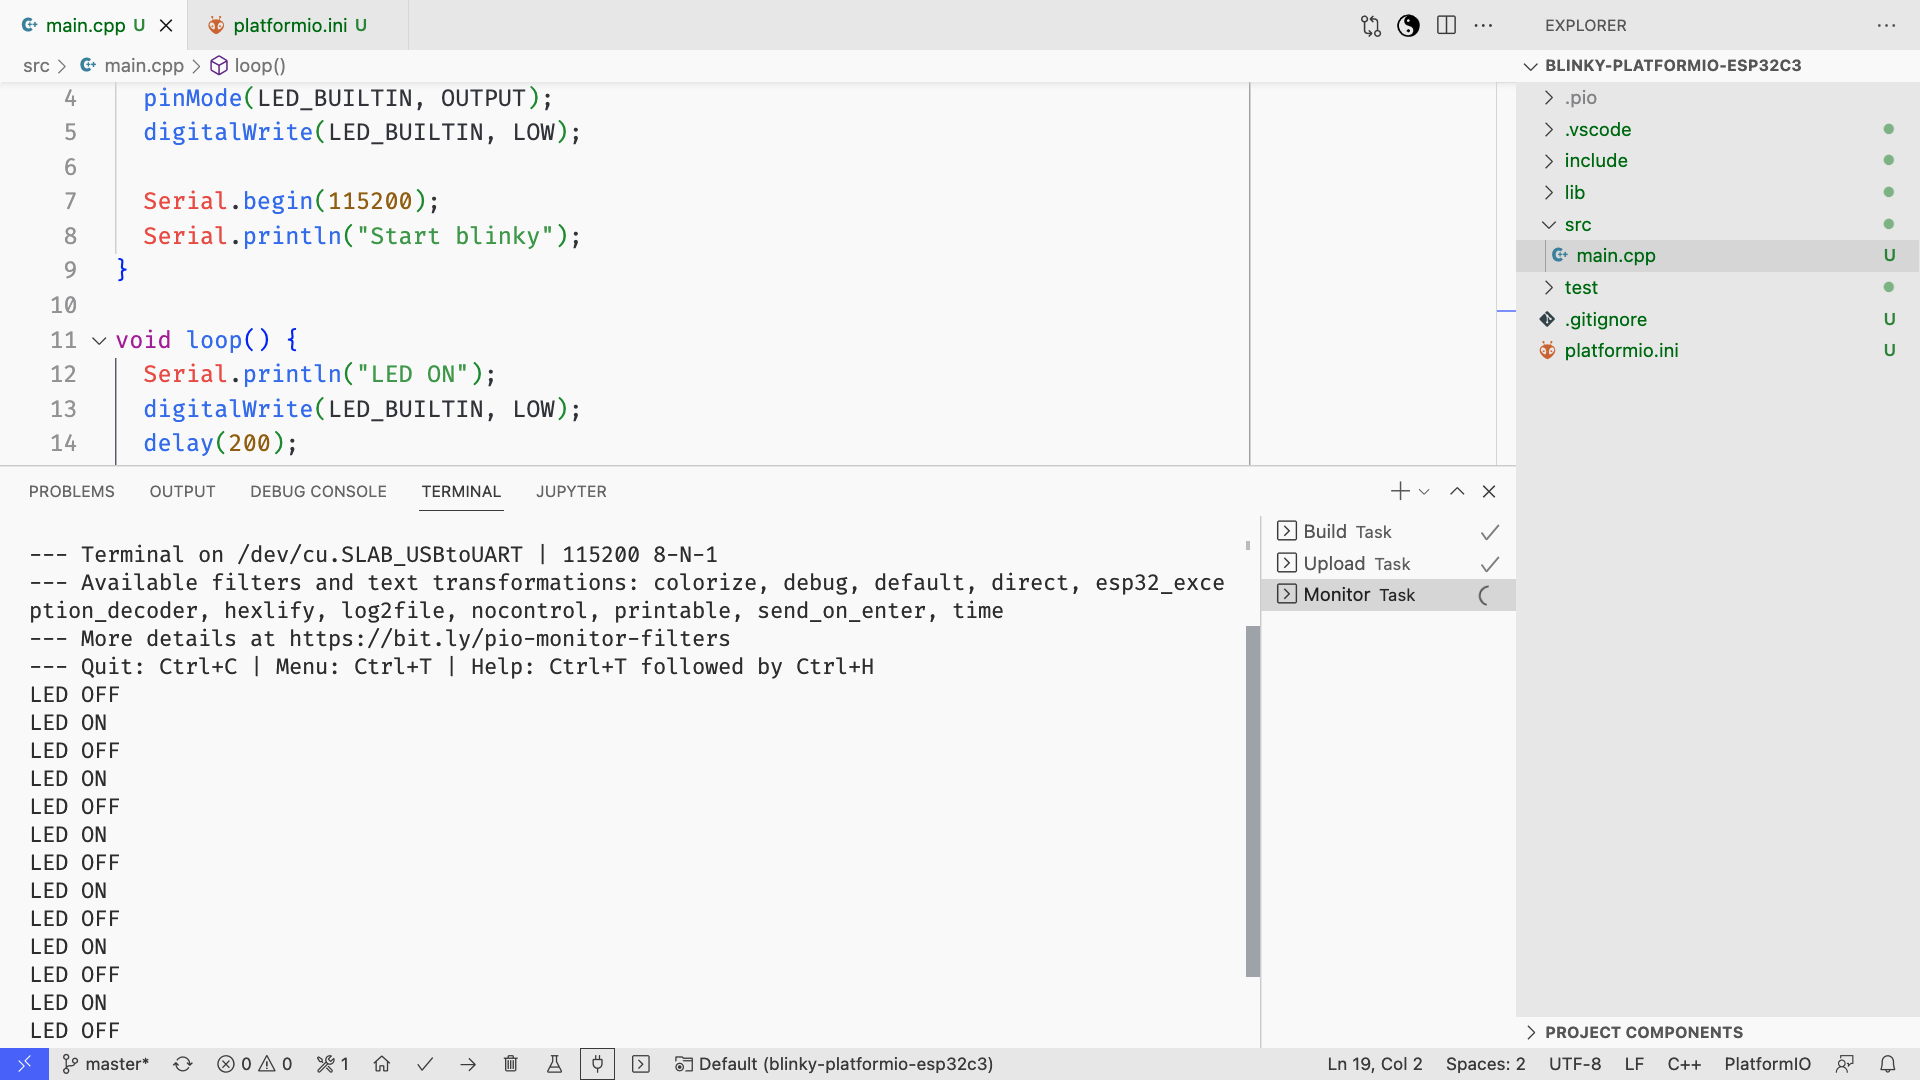
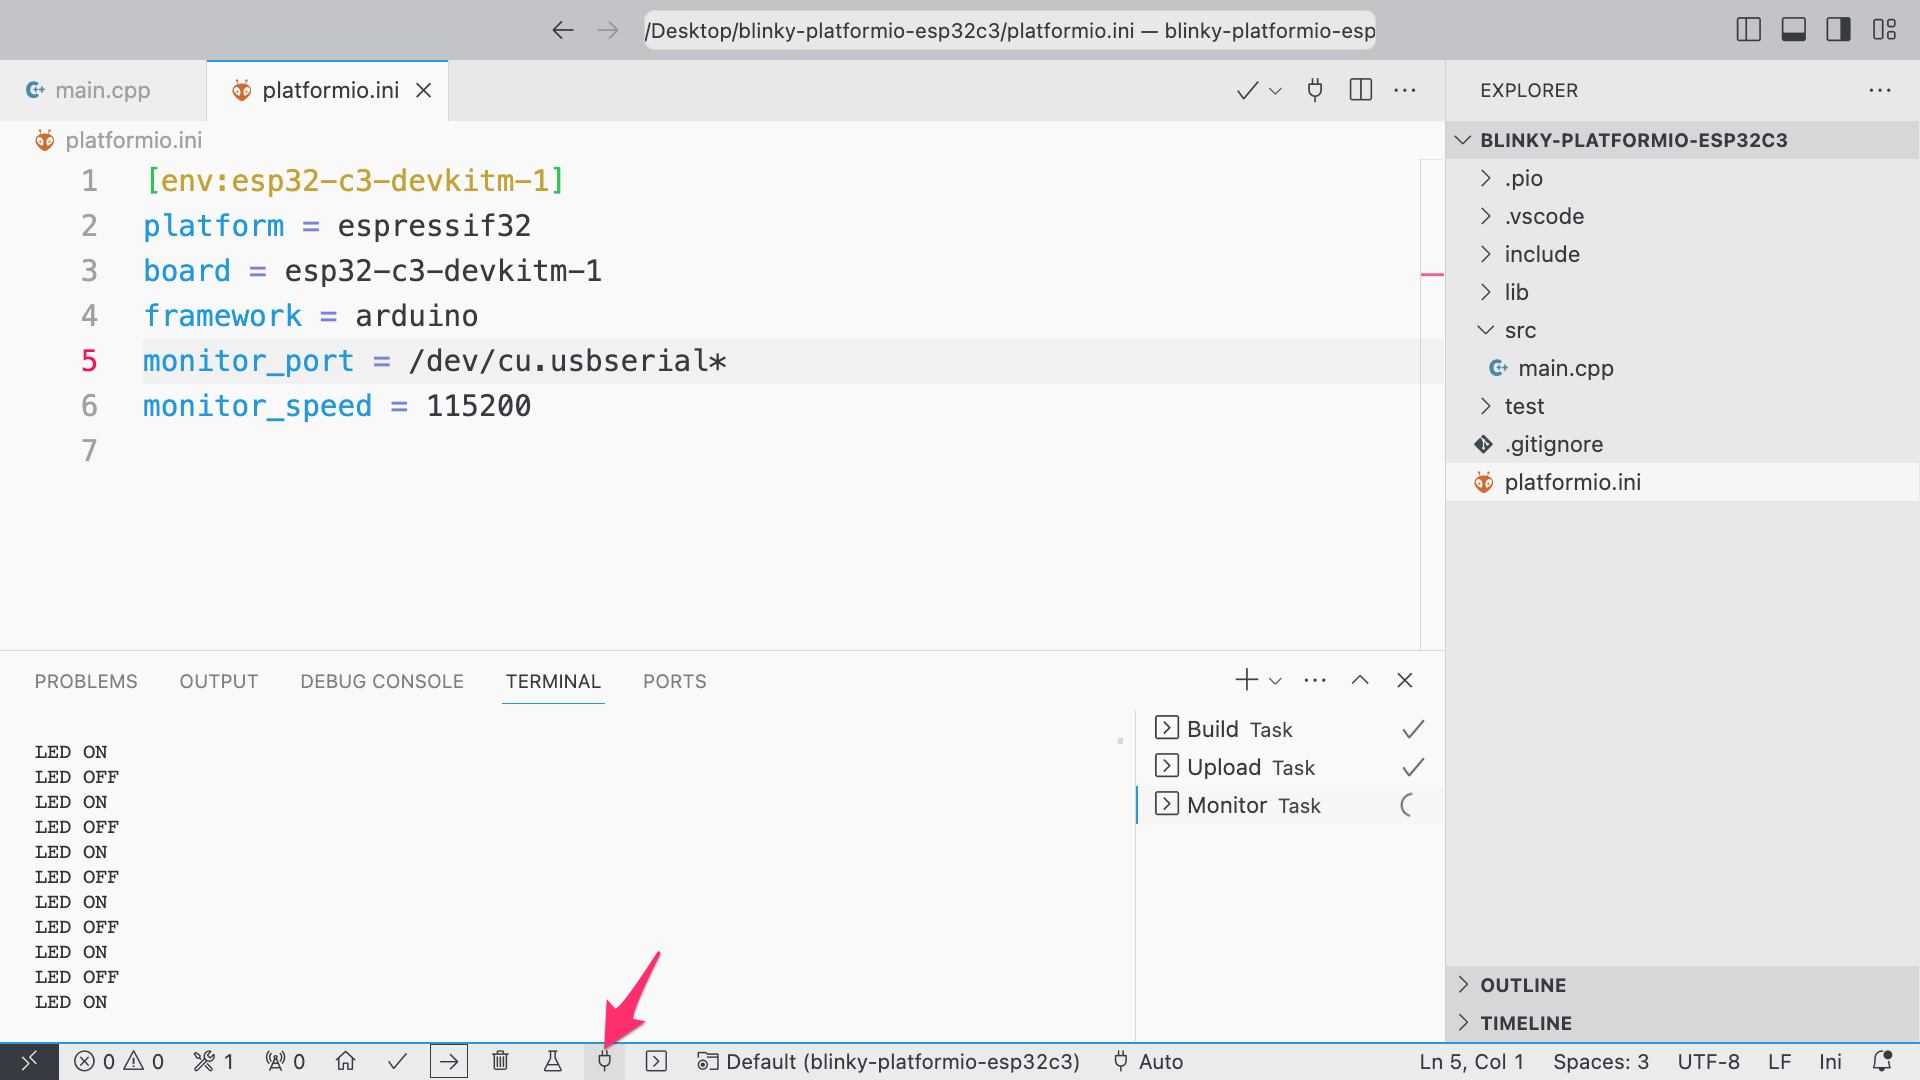
docs: add images for Blinky ESP32-C3 platformio

diff --git a/_tutorials/blinky-platformio-esp32c3.md b/_tutorials/blinky-platformio-esp32c3.md
@@ -37,4 +37,17 @@ prerequisites:
 
 The on-board LED `LED_BUILTIN` is `GPIO8` as defined in the [pin out](https://docs.espressif.com/projects/esp-idf/en/latest/esp32c3/hw-reference/esp32c3/user-guide-devkitm-1.html#pin-layout).
 
-Compile and upload the firmware via the PlatformIO plugin on VS Code
+Compile and upload the firmware via the PlatformIO plugin on VS Code.
+
+1. Create new project with PlatformIO on VS Code editor
+  [![]({{ site.url }}/assets/images/tutorials/blinky-platformio-esp32s3-create-project.png)]({{ site.url }}/assets/images/tutorials/blinky-platformio-esp32s3-create-project.png)
+1. Add the project name, board `Espressif ESP32-C3-DevkitM-1`, and Framework `Arduino`
+  [![]({{ site.url }}/assets/images/tutorials/blinky-platformio-esp32c3-project-wizard.png)]({{ site.url }}/assets/images/tutorials/blinky-platformio-esp32c3-project-wizard.png)
+1. Edit file `src/main.cpp` with blinky Arduino code
+1. Edit `platform.ini` with configurations
+1. Click Build ✅ to compile the code
+  [![]({{ site.url }}/assets/images/tutorials/blinky-platformio-esp32c3-build.png)]({{ site.url }}/assets/images/tutorials/blinky-platformio-esp32c3-build.png)
+1. Click Upload ➡ to flash the firmware on the board
+  [![]({{ site.url }}/assets/images/tutorials/blinky-platformio-esp32c3-upload.png)]({{ site.url }}/assets/images/tutorials/blinky-platformio-esp32c3-upload.png)
+1. Click Serial monitor 🔌 to view the serial prints
+  [![]({{ site.url }}/assets/images/tutorials/blinky-esp32s3-platformio-console.png)]({{ site.url }}/assets/images/tutorials/blinky-esp32s3-platformio-console.png)
